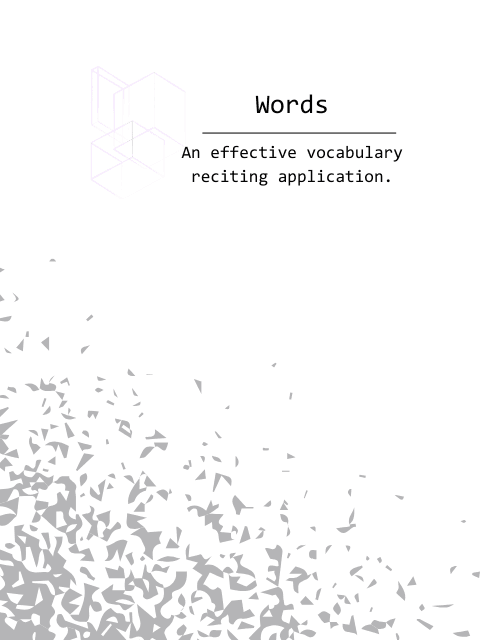
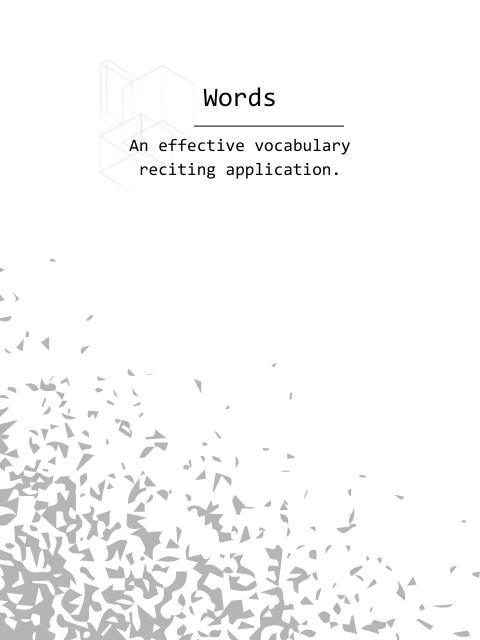
feat: login background. fix: duplicate record word.

Changed region(s): [[0.25, 0.125, 0.8438, 0.3125]]

diff --git a/src/windows/recite/MultipleChoiceWindow.cpp b/src/windows/recite/MultipleChoiceWindow.cpp
@@ -180,16 +180,23 @@ void MultipleChoiceWindow::handleButtonClick() {
             pixmap = QPixmap(":/incorrect.svg");
             wrongAnswers.append(std::get<1>(words[currentIndex]));
 
-            // 已在错题本的不再添加
             if (bookId != -1) {
-                // 添加到错题本
                 QSqlDatabase db = QSqlDatabase::database();
                 QSqlQuery query(db);
-                query.prepare("INSERT INTO record(user_id, book_id, word_id) VALUES (:user_id, :book_id, :word_id)");
+                // 已在错题本的不再添加
+                query.prepare("SELECT * FROM record WHERE user_id = :user_id AND word_id = :word_id");
                 query.bindValue(":user_id", userId);
-                query.bindValue(":book_id", bookId);
                 query.bindValue(":word_id", std::get<0>(words[currentIndex]));
                 query.exec();
+                if (!query.next()) {
+                    // 添加到错题本
+                    query.prepare(
+                            "INSERT INTO record(user_id, book_id, word_id) VALUES (:user_id, :book_id, :word_id)");
+                    query.bindValue(":user_id", userId);
+                    query.bindValue(":book_id", bookId);
+                    query.bindValue(":word_id", std::get<0>(words[currentIndex]));
+                    query.exec();
+                }
             }
         }
         pixmap = pixmap.scaled(20, 20, Qt::KeepAspectRatio);

diff --git a/src/windows/recite/SpellingWindow.cpp b/src/windows/recite/SpellingWindow.cpp
@@ -90,16 +90,23 @@ void SpellingWindow::handleNextButton() {
         pixmap = QPixmap(":/incorrect.svg");
         wrongAnswers.append(std::get<1>(words[currentIndex]));
 
-        // 已在错题本的不再添加
         if (bookId != -1) {
-            // 添加到错题本
             QSqlDatabase db = QSqlDatabase::database();
+
             QSqlQuery query(db);
-            query.prepare("INSERT INTO record(user_id, book_id, word_id) VALUES (:user_id, :book_id, :word_id)");
+            // 已在错题本的不再添加
+            query.prepare("SELECT * FROM record WHERE user_id = :user_id AND word_id = :word_id");
             query.bindValue(":user_id", userId);
-            query.bindValue(":book_id", bookId);
             query.bindValue(":word_id", std::get<0>(words[currentIndex]));
             query.exec();
+            if (!query.next()) {
+                // 添加到错题本
+                query.prepare("INSERT INTO record(user_id, book_id, word_id) VALUES (:user_id, :book_id, :word_id)");
+                query.bindValue(":user_id", userId);
+                query.bindValue(":book_id", bookId);
+                query.bindValue(":word_id", std::get<0>(words[currentIndex]));
+                query.exec();
+            }
         }
     }
     pixmap = pixmap.scaled(20, 20, Qt::KeepAspectRatio);

diff --git a/src/windows/MainWindow.cpp b/src/windows/MainWindow.cpp
@@ -2,9 +2,18 @@
 
 #include <QStackedWidget>
 
-MainWindow::MainWindow(QWidget *parent) : QWidget(parent) {
+MainWindow::MainWindow(QWidget *parent) : QMainWindow(parent) {
+    // 创建中心窗口部件
+    QWidget *centralWidget = new QWidget(this);
+    setCentralWidget(centralWidget);
+
     // 创建堆栈窗口
     stackedWidget = new QStackedWidget(this);
+    // 设置背景图片
+    stackedWidget->setStyleSheet(R"(
+QStackedWidget {
+    background-image: url(:/background.png);
+})");
 
     // 创建登录和主界面的实例
     loginWidget = new LoginWidget();
@@ -17,12 +26,17 @@ MainWindow::MainWindow(QWidget *parent) : QWidget(parent) {
 
     QVBoxLayout *layout = new QVBoxLayout();
     layout->addWidget(stackedWidget);
-    setLayout(layout);
+    layout->setContentsMargins(0, 0, 0, 0);
+    centralWidget->setLayout(layout);
 
     // 监听登陆成功，切换到主界面
     connect(loginWidget, &LoginWidget::loginSuccessful, this, [this](int userId) {
         homeWidget->setup(userId);     // 初始化 homeWidget
         stackedWidget->setCurrentIndex(1); // 切换到主界面
+        stackedWidget->setStyleSheet(R"(
+QStackedWidget {
+    background-image: none;
+})");
     });
 }
 

diff --git a/src/windows/MainWindow.h b/src/windows/MainWindow.h
@@ -3,10 +3,11 @@
 
 #include <QWidget>
 #include <QStackedWidget>
+#include <QMainWindow>
 #include "../widgets/LoginWidget.h"
 #include "../widgets/HomeWidget.h"
 
-class MainWindow : public QWidget {
+class MainWindow : public QMainWindow {
 Q_OBJECT
 
 public:
